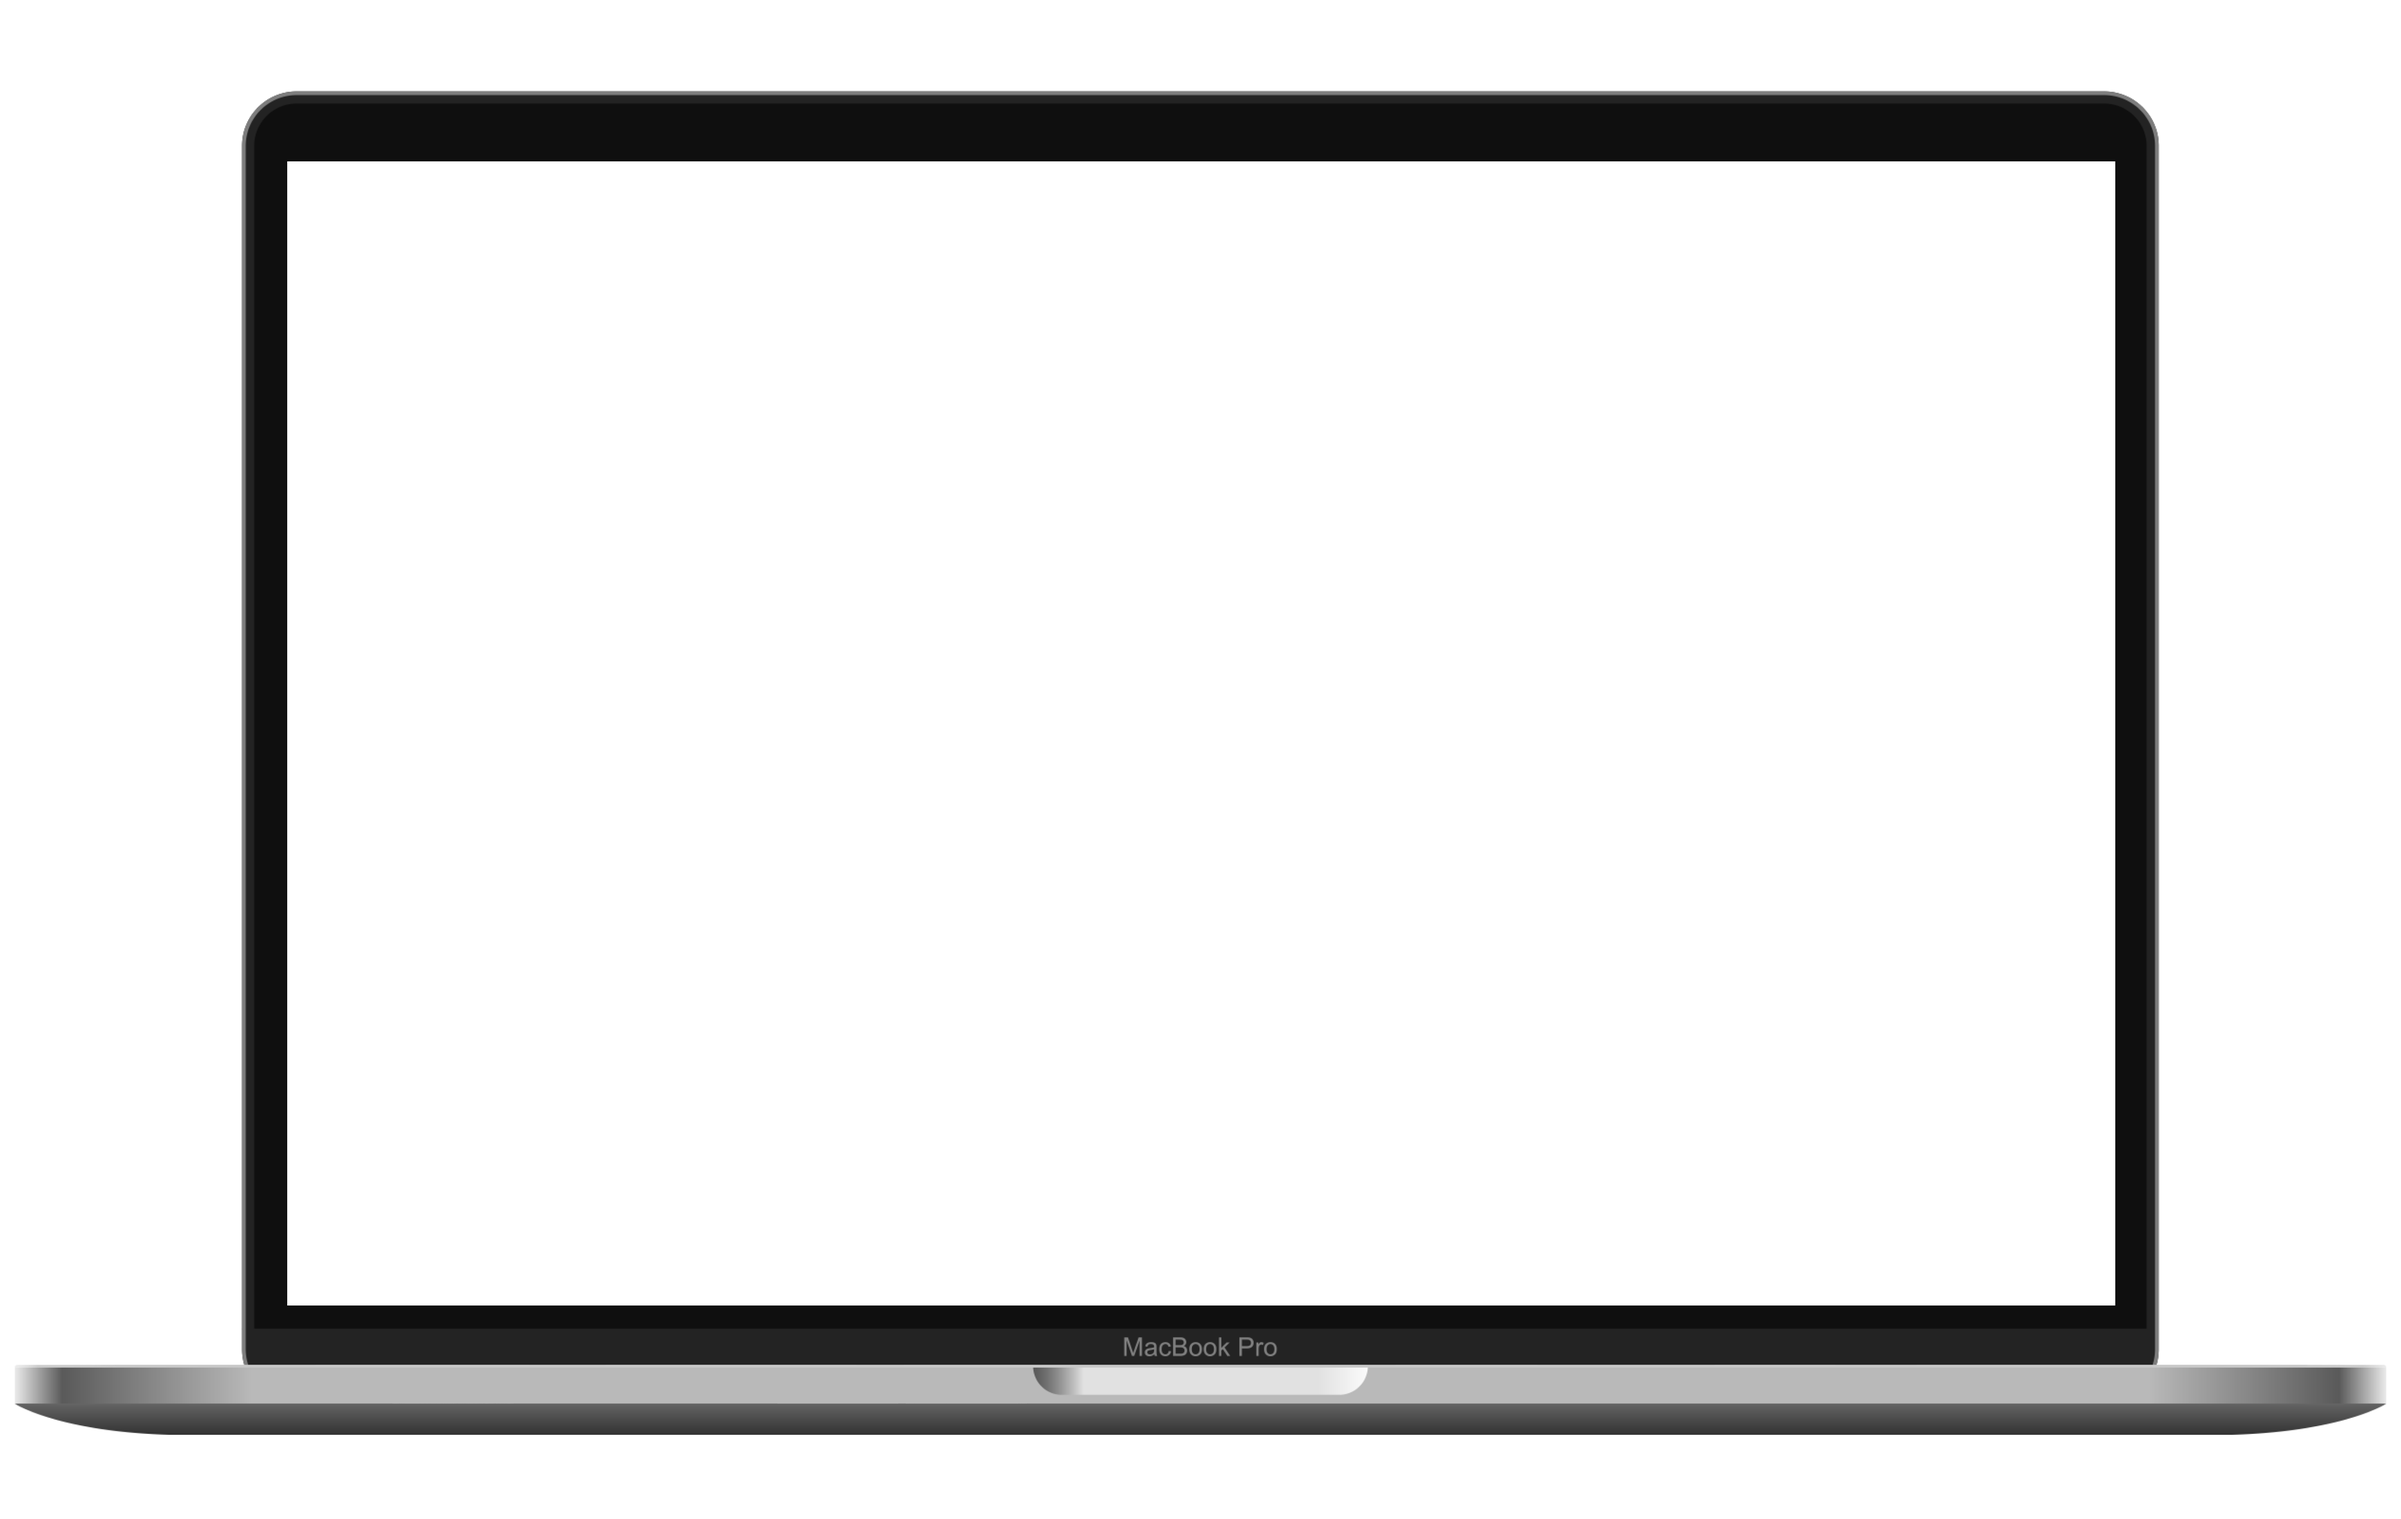
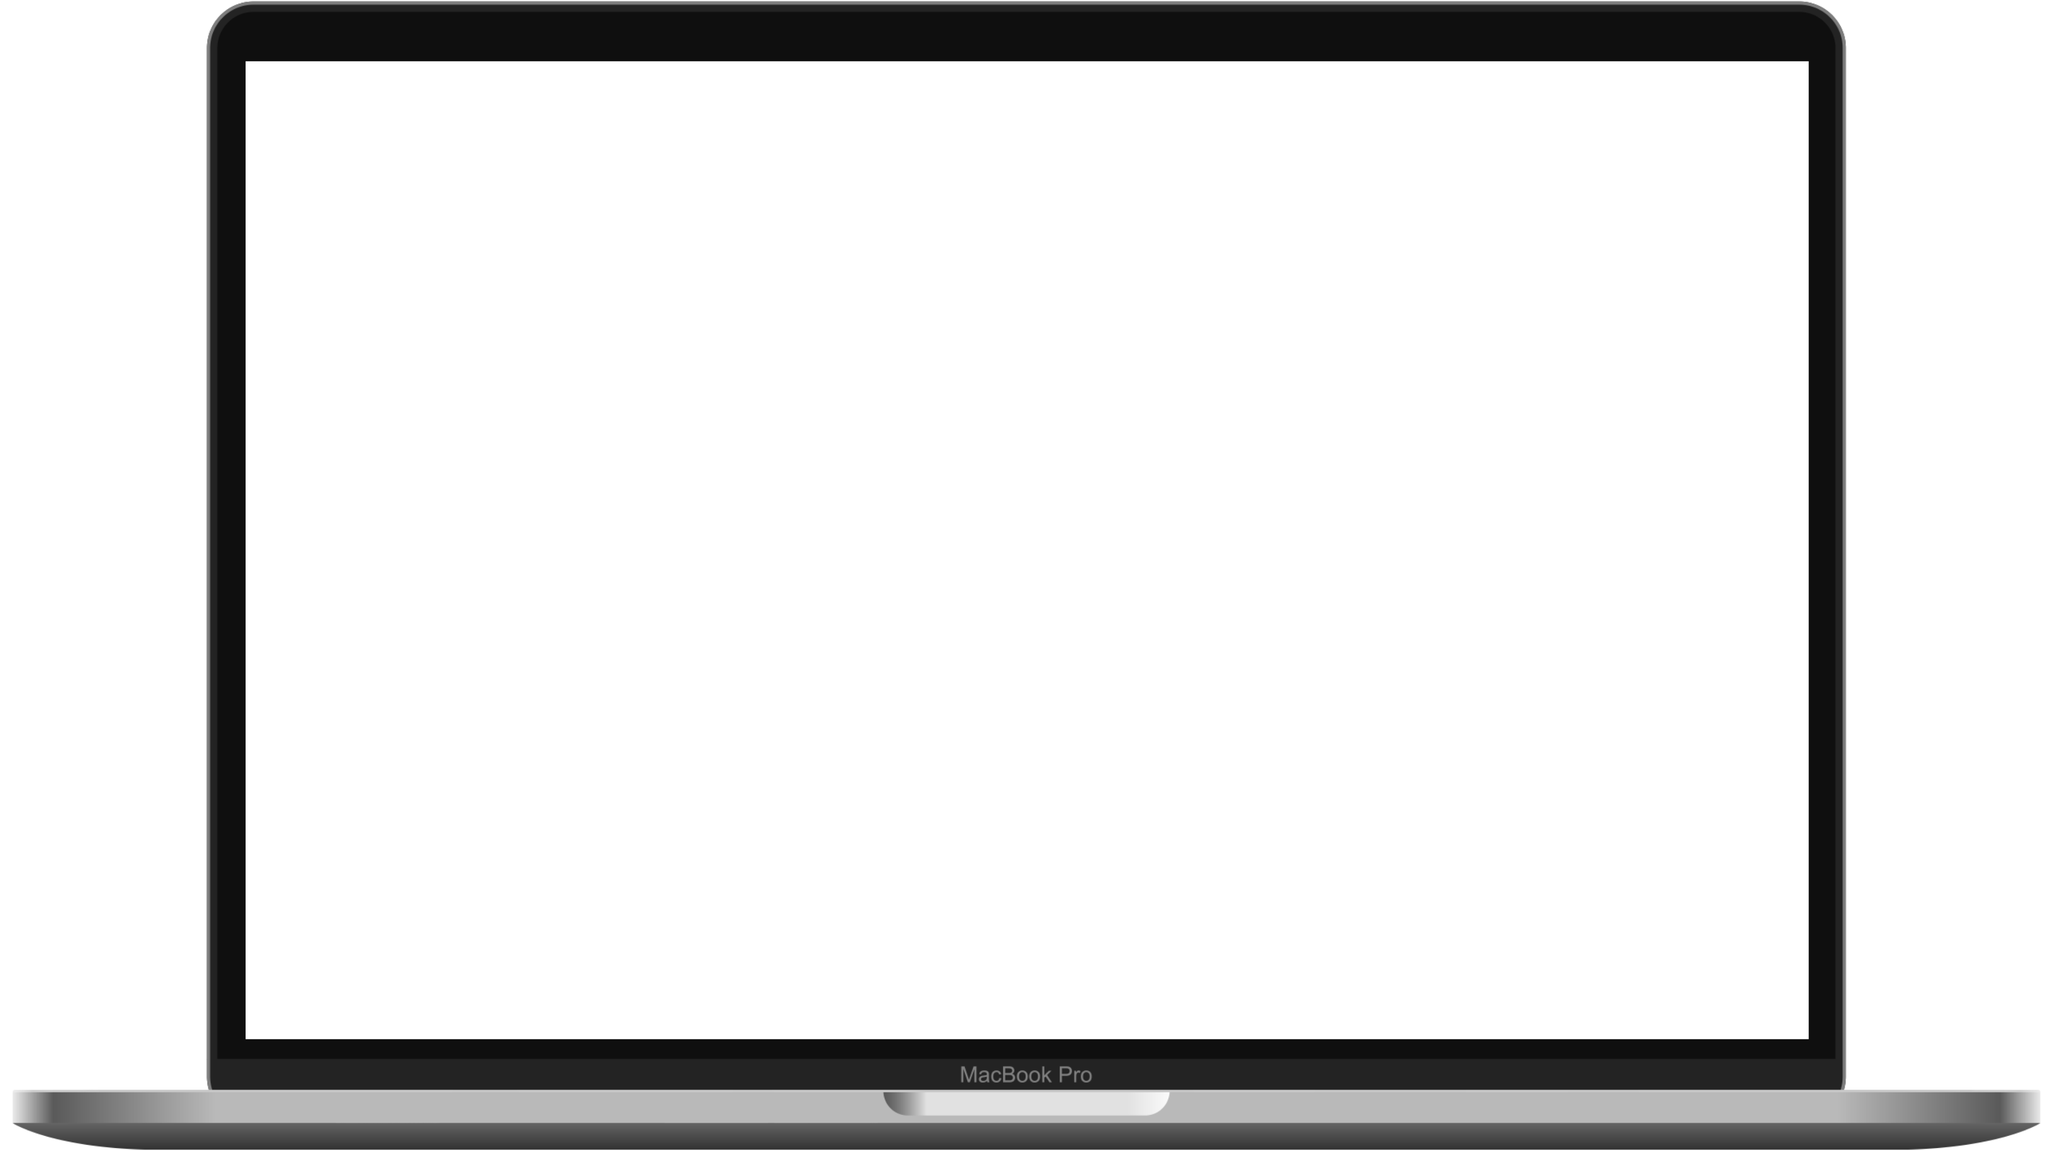
continue desktop animation

Changed region(s): [[0.0, 0.8349, 1.0, 1.0], [0.0938, 0.0, 0.9062, 0.1237]]

diff --git a/pageComponents/HomePage/Education/Education.tsx b/pageComponents/HomePage/Education/Education.tsx
@@ -1,41 +1,188 @@
 import { SectionLabel } from '@/components/SectionLabel';
 import { SectionTitle } from '@/components/SectionTitle';
-import { FC } from 'react';
+import { FC, useEffect, useRef } from 'react';
 import { useTranslation } from 'react-i18next';
 import styled from 'styled-components';
 import mockup from '@/assets/images/mockup-notebook.png';
 import Image from 'next/image';
 import { InfoLink } from './components';
+import { gsap } from 'gsap';
+import { ScrollTrigger } from 'gsap/dist/ScrollTrigger';
+
+if (typeof window !== 'undefined') {
+  gsap.registerPlugin(ScrollTrigger);
+}
 
 const Education: FC = () => {
   const { t } = useTranslation('education');
+  const rootRef = useRef(null);
+  const headRef = useRef(null);
+  const contentRef = useRef<HTMLDivElement>(null);
+  const descriptionWrapperRef = useRef(null);
+  const descriptionFirstRef = useRef(null);
+  const descriptionSecondRef = useRef(null);
+  const notebookWrapperRef = useRef<HTMLDivElement>(null);
+  const videoRef = useRef<HTMLVideoElement>(null);
+  const infoLinkWrapperRef = useRef(null);
+  const notebookImageWrapperRef = useRef(null);
+
+  useEffect(() => {
+    const educationTimeline = gsap.timeline({
+      scrollTrigger: {
+        trigger: rootRef.current,
+        start: 'top top',
+        end: '+=2000',
+        markers: true,
+        pin: true,
+        scrub: 1,
+        snap: {
+          snapTo: 'labels',
+          duration: { min: 0.2, max: 2 },
+          delay: 0.2,
+          ease: 'sine.out',
+        },
+        onEnter: () => {
+          videoRef?.current?.play();
+        },
+      },
+    });
+
+    educationTimeline
+      .addLabel('start')
+      .to(
+        descriptionFirstRef.current,
+        {
+          opacity: 0,
+          yPercent: -100,
+          duration: 0.5,
+        },
+
+        'start'
+      )
+      .to(
+        descriptionSecondRef.current,
+        {
+          opacity: 1,
+          yPercent: -100,
+          duration: 0.5,
+        },
+        '<'
+      )
+      .addLabel('finishChangeDescription')
+      .to(
+        videoRef.current,
+        {
+          yPercent: -100,
+          duration: 0.5,
+          onComplete: () => {
+            videoRef.current?.pause();
+          },
+        },
+        'finishChangeDescription'
+      )
+      .to(
+        infoLinkWrapperRef.current,
+        {
+          y: 0,
+          duration: 0.5,
+        },
+        'finishChangeDescription'
+      )
+      .addLabel('finishChangeInfoLinkPosition')
+      .to(
+        descriptionWrapperRef.current,
+        {
+          xPercent: 100,
+          opacity: 0,
+          duration: 0.5,
+        },
+        'finishChangeInfoLinkPosition'
+      )
+      .to(
+        notebookWrapperRef.current,
+        {
+          x:
+            contentRef!.current!.offsetWidth / 2 -
+            notebookWrapperRef!.current!.getBoundingClientRect().width / 2,
+
+          duration: 0.5,
+        },
+        'finishChangeInfoLinkPosition'
+      )
+      .addLabel('finishMoveNotebook')
+      .to(
+        headRef.current,
+        {
+          yPercent: -100,
+          opacity: 0,
+          duration: 0.5,
+        },
+        'finishMoveNotebook'
+      )
+      .to(
+        notebookWrapperRef.current,
+        {
+          x: 0,
+          y: -300,
+          scale: 1,
+          duration: 0.5,
+        },
+        'finishMoveNotebook'
+      )
+      .to(
+        notebookImageWrapperRef.current,
+        {
+          scale: 1.242,
+          duration: 0.5,
+        },
+        '>-0.1'
+      )
+      .to(
+        infoLinkWrapperRef.current,
+        {
+          scale: 1,
+          duration: 0.5,
+        },
+        '<'
+      )
+      .to(
+        notebookImageWrapperRef.current,
+        {
+          opacity: 0,
+          duration: 0.2,
+        },
+        '>-0.1'
+      )
+
+      .addLabel('finish');
+  }, []);
 
   return (
-    <Root>
-      <SectionHead>
+    <Root ref={rootRef}>
+      <SectionHead ref={headRef}>
         <StyledLabel text={t('label')} isDark />
         <StyledTitle text={t('title')} />
       </SectionHead>
 
-      <SectionContent>
-        <DescriptionWrapper>
-          <DescriptionSection1>
+      <SectionContent ref={contentRef}>
+        <DescriptionWrapper ref={descriptionWrapperRef}>
+          <DescriptionSection1 ref={descriptionFirstRef}>
             <DescriptionLabel text={t('descriptionLabel')} />
             <DescriptionText>{t('descriptionText1')}</DescriptionText>
           </DescriptionSection1>
-          <DescriptionSection2>
+          <DescriptionSection2 ref={descriptionSecondRef}>
             <DescriptionText>{t('descriptionText2')}</DescriptionText>
           </DescriptionSection2>
         </DescriptionWrapper>
-        <NotebookWrapper>
-          <DesktopVideo>
+        <NotebookWrapper ref={notebookWrapperRef}>
+          <DesktopVideo playsInline muted ref={videoRef}>
             <source src="/videos/education-desktop.mp4" />
             <source src="/videos/education-desktop.webm" />
           </DesktopVideo>
-          <InfoLinkWrapper>
+          <InfoLinkWrapper ref={infoLinkWrapperRef}>
             <StyledInfoLink />
           </InfoLinkWrapper>
-          <NotebookImageWrapper>
+          <NotebookImageWrapper ref={notebookImageWrapperRef}>
             <Image src={mockup} alt="Mackbook Pro" />
           </NotebookImageWrapper>
         </NotebookWrapper>
@@ -70,7 +217,6 @@ const SectionContent = styled.div`
   max-width: 1440px;
   margin: 0 auto;
   position: relative;
-  /* padding-left: 100px; */
 `;
 
 const NotebookWrapper = styled.div`
@@ -78,11 +224,11 @@ const NotebookWrapper = styled.div`
   transform: translateX(100px) scale(0.4375);
   transform-origin: top left;
   overflow: hidden;
-  /* width: 630px; */
 `;
 
 const NotebookImageWrapper = styled.div`
   position: relative;
+  pointer-events: none;
 `;
 
 const DesktopVideo = styled.video.attrs(() => ({
@@ -93,7 +239,6 @@ const DesktopVideo = styled.video.attrs(() => ({
   transform-origin: top;
   position: absolute;
   top: 75px;
-  /* top: 40px; */
 `;
 
 const DescriptionWrapper = styled.div`
@@ -101,7 +246,6 @@ const DescriptionWrapper = styled.div`
   max-width: 400px;
   top: 50px;
   right: 200px;
-  /* transform: translateY(-50%); */
 `;
 
 const DescriptionSection = styled.div`
@@ -113,7 +257,9 @@ const DescriptionSection = styled.div`
 
 const DescriptionSection1 = styled(DescriptionSection)``;
 
-const DescriptionSection2 = styled(DescriptionSection)``;
+const DescriptionSection2 = styled(DescriptionSection)`
+  opacity: 0;
+`;
 
 const DescriptionLabel = styled(SectionLabel)`
   background-color: #168665;
